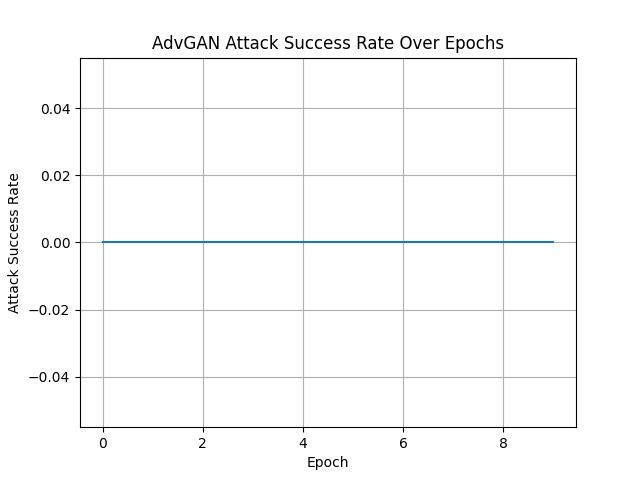
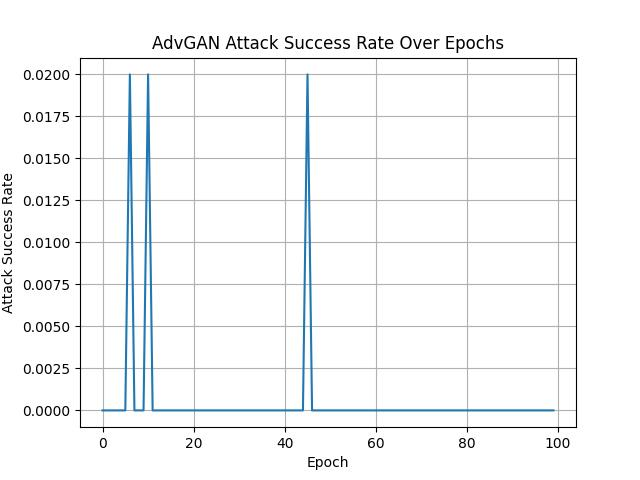
Feat: batch GAN

diff --git a/Modified_GAN_based.py b/Modified_GAN_based.py
@@ -4,7 +4,11 @@ import pandas as pd
 import os
 import Modified_GAN_Generator
 import Modified_GAN_Target_Model
+from Filter import filtering
 from datetime import datetime
+import joblib
+import logging
+import matplotlib.pyplot as plt
 
 class AdvGAN_attack:
     def __init__(self,
@@ -16,7 +20,8 @@ class AdvGAN_attack:
                  thresh=0.3,
                  alpha=0.1,
                  beta=0.1,
-                 num=0):
+                 num=0,
+                 batch_size=32):
         self.epochs = epochs
         self.features = features
         self.feature_dim = len(self.features)
@@ -33,6 +38,7 @@ class AdvGAN_attack:
         self.b = tf.constant(self.discriminator.intercept_[0], dtype=tf.float32)                 # scalar
         self.ATTACKED_FEATURES_MIN = MIN
         self.ATTACKED_FEATURES_MAX = MAX
+        self.batch_size = batch_size
     
     # loss function for influencing the output close to label 0
     def generator_loss_zero_like(self, d_predict):
@@ -59,22 +65,21 @@ class AdvGAN_attack:
     # loss function for influencing the output close to boundary
     def boundary_distance_loss(self, x, thresh):
         # Caculate |w^T x + b| / ||w||
-        x = tf.reshape(x, (1, -1))
+        # x = tf.reshape(x, (1, -1))
         logits = tf.matmul(x, self.w) + self.b               # shape: (batch_size, 1)
         distance = tf.abs(logits) / tf.norm(self.w)          # shape: (batch_size, 1)
         # 只懲罰 logits 遠離邊界（比如 margin 超過 1.0 就加壓）
-        penalty = tf.maximum(0.0, distance - thresh)
+        # penalty = tf.maximum(0.0, distance - thresh)
         # return -tf.reduce_mean(penalty)
         return -tf.reduce_mean(distance)
 
     # Training steps
     #@tf.function
-    def train_step(self):
+    def train_step(self, noise_batch):
         predict = -1
-        noise = tf.random.normal([1, 100])
         with tf.GradientTape() as gen_tape:
-            
-            generated_data = self.generator(noise)
+
+            generated_data = self.generator(noise_batch)
             # 拆出第 0（flow duration）與第 4（max iat）維
             flow_duration = generated_data[:, 0:1]
             max_iat = generated_data[:, 4:5]
@@ -83,8 +88,8 @@ class AdvGAN_attack:
             part_1_to_3 = generated_data[:, 1:4]   # index 1~3
             part_5_to_9 = generated_data[:, 5:]    # index 5~9
 
-            # 放大比例：z[:, 0] ∈ [-1, 1] → scale_factor ∈ [0, 50]
-            scale_factor = (noise[:, 0:1] + 1.0) * 25.0
+            # 放大比例：z[:, 0] ∈ [-1, 1] → scale_factor ∈ [0, 25]
+            scale_factor = (noise_batch[:, 0:1] + 1.0) * 25.0
 
             # 放大
             flow_duration_scaled = flow_duration * scale_factor
@@ -98,18 +103,18 @@ class AdvGAN_attack:
                 part_5_to_9             # index 5~9
             ], axis=1)
             generated_data = tf.clip_by_value(generated_data, self.ATTACKED_FEATURES_MIN, self.ATTACKED_FEATURES_MAX)
-            
+
             # Pass generated data to Discriminator to get predict label,
-            # the range of output is float between -1(label 0) and +1(label 1), 
+            # the range of output is float between -1(label 0) and +1(label 1),
             # predict is 0 or 1.
-            output = self.discriminator.decision_function(generated_data)   
+            output = self.discriminator.decision_function(generated_data)
             predict = self.discriminator.predict(generated_data)
 
             # Caculate the loss
             # g_loss = self.generator_loss(output)
             g_loss = self.margin_loss(generated_data)
             # g_loss = self.generator_loss_zero_like(predict)
-            
+
             bd_loss = self.boundary_distance_loss(generated_data, self.thresh)
             # perturb_loss = self.perturb_loss(perturbation, self.thresh)
             # 取出第 0 維特徵（flow duration）
@@ -120,7 +125,6 @@ class AdvGAN_attack:
             max_iat_loss = -tf.reduce_mean(max_iat)
             # loss = self.alpha * g_loss + self.beta * perturb_loss
             loss = self.alpha * g_loss + self.beta * bd_loss + 0.5 * duration_loss + 0.2 * max_iat_loss
-
         # Caculate gradients
         gradients_of_generator = gen_tape.gradient(loss, self.generator.trainable_variables)
         # print("Generator gradients:", gradients_of_generator)
@@ -147,64 +151,84 @@ class AdvGAN_attack:
         filename_output = os.path.join(output_dir, f"generated_data_{num_train}.csv")
         # filename_output = f"result/{formatted_date}/generated_data_{num_train}.csv"
         
-        # Complete features fields 
+                # Complete features fields
         fields = self.features
-        fields = fields + ["predict", "loss", "gen_loss", "bd_loss"]
-        
-        # fields = fields + ["weight_l0"]
-        
+        fields = fields + ["predict"]
+
         print(fields)
-        
+
         loss = 0
         generated_data = []
         predict = -999
-    
-        all_data = []
+
+        all_data = pd.DataFrame([], columns=fields)
         label_0_data = []
+        accuracy = []
+        batches = self.num // self.batch_size
         print(self.generator.summary())
+        logging.basicConfig(
+            filename="model.log",
+            level=logging.INFO,
+            format="%(asctime)s - %(levelname)s - %(message)s"
+        )
+        logging.info(f"Train Num: {self.num}, Thresh: {self.thresh}, Alpha: {self.alpha}, Beta: {self.beta}.")
+        logging.info("Start training...")
         for epoch in range(self.epochs):
             # Start to train
-            loss, generated_data, predict, g_loss, bd_loss = self.train_step()
-            # w0, _ = self.generator.layers[0].get_weights()
-            # if epoch % 1000 == 0:
-            #     print(f'Epoch {epoch}, Loss: {loss:.4f}, G_Loss: {g_loss:.4f}')
-            #     print(f'predict: {predict}')
-            #     #print(f'Epoch {epoch}, Gen Loss: {gen_loss:.4f}, Disc Loss: {disc_loss:.4f}')
-            #     # Print the values of generated_features
-            #     print("generated_data:", generated_data)
-            #     print("----------------------------------------------------------------------")
-                # print(f"W_0: {w0.mean()}")
-                
-            if epoch % 1000 == 0:
-                print(f'Epoch {epoch}, gen_loss: {g_loss:.4f}, disc_loss: {bd_loss:.4f}')
-                print(f'predict: {predict}')
-                #print(f'Epoch {epoch}, Gen Loss: {gen_loss:.4f}, Disc Loss: {disc_loss:.4f}')
-                # Print the values of generated_features
-                print("generated_data:", generated_data)
-                print('-' * 10)
-            # Record generated data and loss
-            # transform generated_data and predict to numpy array
-            generated_data_np = generated_data.numpy()
-            predict_np = np.array(predict, dtype=np.float32).reshape(1, -1)
-            losses_np = np.array([loss, g_loss, bd_loss], dtype=np.float32).reshape(1, -1)
-            # merge to generated_data
-            merged_array = np.hstack((generated_data_np, predict_np))
-            merged_array = np.hstack((merged_array, losses_np))
-            
-            # # Record weights of each layer
-            # weights_np = np.array([w0.mean()], dtype=np.float32).reshape(1, -1)
-            # merged_array = np.hstack((merged_array, weights_np))
-            
-            
-            all_data.append(merged_array)
-            if predict == 0:
-               label_0_data.append(merged_array)
+            epoch_data = []
+            passed = -1
+            total = -1
+            acc = -1
+            successful_attack = -1
+            attack_success_rate = -1
+            generated_df = []
+            for step in range(batches):
+              noise = tf.random.normal([self.batch_size, 100])
+              loss, generated_data, predict, g_loss, bd_loss = self.train_step(noise)
+              # collect data only in the last epoch
 
-        all_data_np = np.vstack(all_data)
-        df = pd.DataFrame(all_data_np, columns=fields)
-        df.to_csv(filename_output, mode='w', header=fields, index=False, encoding="utf-8")
-        # if label_0_data:
-        #     label_0_data_np = np.vstack(label_0_data)
-        #     df = pd.DataFrame(label_0_data_np, columns=fields)
-        #     df.to_csv(os.path.join(output_dir, f"data_{self.num}_label_0.csv"), mode='w', header=fields, index=False, encoding="utf-8")
+
+              generated_data_np = generated_data.numpy()
+              predict_np = np.array(predict, dtype=np.float32).reshape(-1, 1)
+              merged = np.hstack([generated_data_np, predict_np])
+              epoch_data.append(merged)
+            generated_df = pd.DataFrame(np.vstack(epoch_data), columns=fields)
+            filtered_df = filtering(generated_df)
+            total = len(generated_df)
+            passed = len(filtered_df)
+            successful_attack = filtered_df[filtered_df["predict"] == 0]
+            if total > 0:
+                acc = passed / total
+                # all_data = pd.concat([all_data, successful_attack], ignore_index=True)
+                attack_success_rate = len(successful_attack) / len(generated_df)
+                accuracy.append(attack_success_rate)
+            else:
+              print("Error: generated_df")
+            if epoch % 100 == 0 or epoch == self.epochs - 1:
+                print(f"[Epoch {epoch}] 條件篩選後通過比例: {passed}/{total} = {acc:.2%}")
+                # print(f'gen_loss: {g_loss:.4f}, disc_loss: {bd_loss:.4f}')
+                # print(f'predict: {predict}')
+                print(f"[Epoch {epoch}] 條件篩選後成功攻擊比例: {len(successful_attack)}/{len(generated_df)} = {attack_success_rate:.2%}")
+                # print(f"成功攻擊樣本數：{len(all_data)}")
+                print(f"Avg 成功攻擊比例: {(sum(accuracy) / len(accuracy)) * 100}%")
+                print(f"loss: {loss:.4f}, g_loss: {g_loss:.4f}, bd_loss: {bd_loss:.4f}")
+                print(f'predict: {predict}')
+
+                if epoch == self.epochs - 1:
+                  successful_attack.to_csv(filename_output, mode='w', header=fields, index=False, encoding="utf-8")
+                  # print(accuracy)
+                  print(len(accuracy))
+                  print(f"Avg accuracy: {(sum(accuracy) / len(accuracy)) * 100}%")
+                  print(f"Save Generator...")
+                  logging.info(f"Finish training.\nAvg accuracy: {(sum(accuracy) / len(accuracy)) * 100}%\nloss: {loss:.4f}, g_loss: {g_loss:.4f}, bd_loss: {bd_loss:.4f}")
+                  joblib.dump(self.generator, "Generator.pkl")
+                print('-' * 10)
+        plt.plot(accuracy)
+        plt.xlabel("Epoch")
+        plt.ylabel("Attack Success Rate")
+        plt.title("AdvGAN Attack Success Rate Over Epochs")
+        plt.grid(True)
+
+        os.makedirs("fig", exist_ok=True)  # 若資料夾不存在則建立
+        plt.savefig(os.path.join("fig", "Attack_Success_Rate.jpg"))
         

diff --git a/Filter.py b/Filter.py
@@ -1,0 +1,68 @@
+def filtering(df):
+    # max iat > min iat
+    df_filtered = df[df['max iat'] >= df['min iat']]
+    # max pkt len > min pkt len
+    df_filtered = df_filtered[df_filtered['max pkt_length'] >=  df_filtered['min pkt_length']]
+    # pkt count > 0
+    df_filtered = df_filtered[df_filtered['packet count'] >= df_filtered['fin count']]
+    df_filtered = df_filtered[df_filtered['packet count'] >= df_filtered['syn count']]
+    df_filtered = df_filtered[df_filtered['packet count'] >= df_filtered['psh count']]
+    df_filtered = df_filtered[df_filtered['packet count'] >= df_filtered['ack count']]
+
+
+    # [FIN, ACK]
+    df_filtered = df_filtered[df_filtered['fin count'] <= df_filtered['ack count']]
+    # [PSH, ACK]
+    df_filtered = df_filtered[df_filtered['psh count'] <= df_filtered['ack count']]
+
+    # 新增條件 1: 若 pkt count > 3，則 flow duration >= 1
+    df_filtered = df_filtered[~((df_filtered['packet count'] > 3) & (df_filtered['flow duration'] < 1))]
+
+    # 新增條件 2: 若 flow duration > 0，則 pkt count > 0
+    df_filtered = df_filtered[~((df_filtered['flow duration'] >= 1) & (df_filtered['packet count'] <= 3))]
+
+    # 新增條件 3: flow duration >= max iat
+    df_filtered = df_filtered[df_filtered['flow duration'] >= df_filtered['max iat']]
+
+#     # 新增條件 1: 若 pkt count > 0，則 flow duration > 0
+#     df_filtered = df_filtered[~((df_filtered['max iat'] > 0) & (df_filtered['flow duration'] <= 0))]
+
+#     # 新增條件 2: 若 flow duration > 0，則 pkt count > 0
+#     df_filtered = df_filtered[~((df_filtered['flow duration'] > 0) & (df_filtered['max iat'] <= 0))]
+
+
+    # 新增條件 4: 所有 flags 加總 <= packet count
+    df_filtered = df_filtered[
+        (df_filtered['fin count'] + df_filtered['syn count'] +
+         df_filtered['psh count'] + df_filtered['ack count']) <= (df_filtered['packet count'] * 2)
+    ]
+    df_filtered = df_filtered[
+        (df_filtered['fin count'] + df_filtered['syn count'] +
+         df_filtered['psh count'] + df_filtered['ack count']) >= (df_filtered['packet count'] * 0.5)
+    ]
+
+
+    df_filtered = df_filtered[~(
+    (df_filtered['ack count'] > 5) &
+    ((df_filtered['fin count'] + df_filtered['syn count'] + df_filtered['psh count']) < (df_filtered['ack count'] * 0.25))
+    )]
+    df_filtered = df_filtered[
+        (df_filtered['max iat']) >= (df_filtered['packet count'] * 0.4)
+    ]
+#     df_filtered = df_filtered[
+#         (df_filtered['flow duration']) >= (df_filtered['packet count'] * 0.4)
+#     ]
+#     df_filtered = df_filtered[
+#         (df_filtered['flow duration']) <= (df_filtered['packet count'] * 16654)
+#     ]
+    df_filtered = df_filtered[
+        (df_filtered['max iat']) >= (df_filtered['flow duration'] / (df_filtered['packet count']-1))
+    ]
+
+#     df_filtered = df_filtered[~((df_filtered['packet count'] > 0) & (df_filtered['fin count'] + df_filtered['syn count'] +
+#          df_filtered['psh count'] + df_filtered['ack count'] <= 0))]
+#     df_filtered = df_filtered[~((df_filtered['packet count'] <= 0) & (df_filtered['fin count'] + df_filtered['syn count'] +
+#          df_filtered['psh count'] + df_filtered['ack count'] > 0))]
+
+
+    return df_filtered

diff --git a/Modified_GAN_main.py b/Modified_GAN_main.py
@@ -35,6 +35,7 @@ if __name__ == "__main__":
         parser.add_argument("--num_data", type=int, default=0)
         parser.add_argument("--lr", type=float, default=0.001)
         parser.add_argument("--epochs", type=int, default=10000)
+        parser.add_argument("--batch_size", type=int, default=10)
         args = parser.parse_args()
         thresh = args.thresh
         alpha = args.alpha
@@ -42,6 +43,7 @@ if __name__ == "__main__":
         epochs = args.epochs
         learning_rate = args.lr
         num_data = args.num_data
+        batch_size = args.batch_size
 
 
 
@@ -53,5 +55,6 @@ if __name__ == "__main__":
                                              thresh=thresh, 
                                              alpha=alpha, 
                                              beta=beta, 
-                                             num=num_data)
+                                             num=num_data,
+                                             batch_size=batch_size)
         Attack.train()
